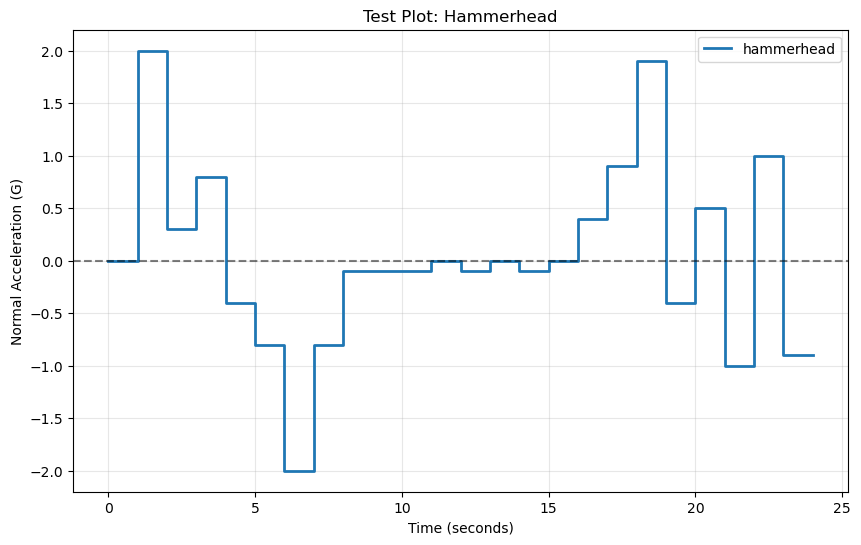
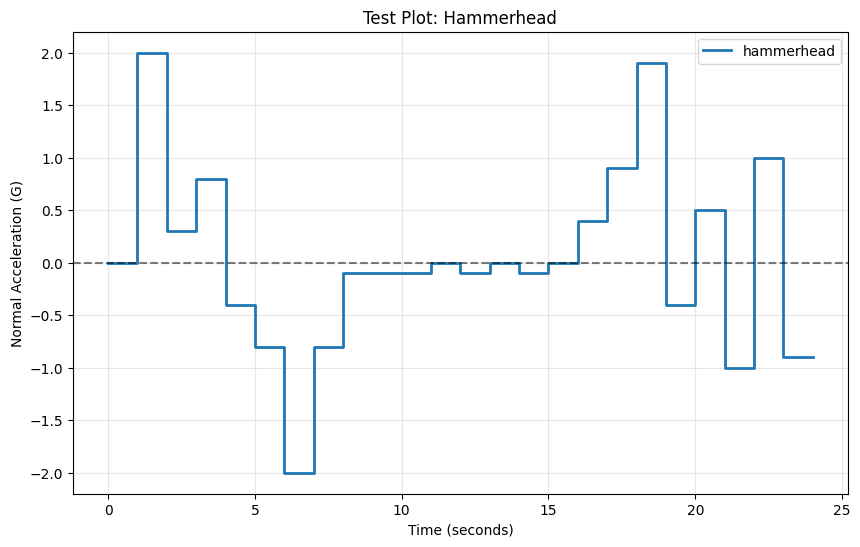
Enhance documentation, add Docker support, and improve CGEM temp file handling

diff --git a/cgem_wrapper.py b/cgem_wrapper.py
@@ -196,8 +196,9 @@ def run_cgem_for_profile(profile_id: str) -> Tuple[CGEMResult, Path]:
     samples = load_profile(profile_id)
     egp_lines = _profile_to_egp_lines(samples)
 
-    temp_dir_obj = tempfile.TemporaryDirectory(prefix="cgem_run_")
-    temp_dir = Path(temp_dir_obj.name)
+    # Use a persistent temp directory so that callers can inspect outputs
+    temp_dir_path = tempfile.mkdtemp(prefix="cgem_run_")
+    temp_dir = Path(temp_dir_path)
 
     try:
         # Prepare files
@@ -213,8 +214,8 @@ def run_cgem_for_profile(profile_id: str) -> Tuple[CGEMResult, Path]:
         result = _parse_cgem_output(out_path)
         return result, temp_dir
     except Exception:
-        # On failure, clean temp dir and re-raise
-        temp_dir_obj.cleanup()
+        # On failure, clean the temp dir and re-raise
+        shutil.rmtree(temp_dir, ignore_errors=True)
         raise
 
 

diff --git a/README.md b/README.md
@@ -24,6 +24,8 @@ Developed by **Dr. Diego Malpica**.
 python -m venv .venv
 source .venv/bin/activate  # Windows: .venv\Scripts\activate
 pip install -r requirements.txt
+# Linux users: if CGEM fails to run, install the Fortran runtime
+# sudo apt-get update && sudo apt-get install -y libgfortran5
 ```
 
 2) Launch the interactive visualization app
@@ -80,6 +82,120 @@ Copeland, K., & Whinnery, J. E. (2023). Cerebral blood flow-based computer model
 - `Aerobatics_sample_inputs/`: Example input profiles for scenarios
 - `docs/`: Guides and related documents
 - `notebooks/`: Research and demo notebooks
+
+---
+
+## Running with Conda (recommended for science stacks)
+
+Create an isolated Conda environment with all dependencies (CPU-only):
+
+```bash
+# Create environment
+conda create -n cgem-env -y python=3.11
+
+# Activate
+conda activate cgem-env
+
+# Core scientific stack
+conda install -y -c conda-forge \
+  numpy>=1.24 \
+  pandas>=2.0 \
+  scipy>=1.10 \
+  matplotlib>=3.7 \
+  seaborn>=0.12 \
+  plotly>=5.17 \
+  pillow>=10.0 \
+  pip
+
+# Streamlit and extras via pip (conda-forge streamlit is OK too)
+pip install "streamlit>=1.28"
+```
+
+Run the app:
+```bash
+streamlit run enhanced_app.py
+```
+
+Note:
+- The CGEM Fortran executable (`cgem`) requires the GNU Fortran runtime. On Linux, ensure `libgfortran5` is installed (e.g., `sudo apt-get install -y libgfortran5`). Inside Conda environments this is typically resolved by the system’s shared libraries.
+
+---
+
+## Dockerization
+
+Use Docker to run the app with a reproducible environment.
+
+### 1) Build the image
+
+Create a `Dockerfile` in the project root with the following content:
+
+```dockerfile
+# Base image with Python and build tools
+FROM python:3.11-slim
+
+# Install system dependencies (GNU Fortran runtime for CGEM)
+RUN apt-get update -y && \
+    apt-get install -y --no-install-recommends \
+      libgfortran5 \
+      && rm -rf /var/lib/apt/lists/*
+
+# Set workdir
+WORKDIR /app
+
+# Copy dependency manifests first (leverage Docker layer caching)
+COPY requirements.txt ./
+
+# Install Python deps
+RUN pip install --no-cache-dir -r requirements.txt
+
+# Copy the rest of the repo
+COPY . .
+
+# Streamlit configuration (optional)
+ENV STREAMLIT_SERVER_HEADLESS=true \
+    STREAMLIT_BROWSER_GATHER_USAGE_STATS=false
+
+# Expose Streamlit default port
+EXPOSE 8501
+
+# Default command runs the Streamlit app
+CMD ["streamlit", "run", "enhanced_app.py", "--server.port=8501", "--server.address=0.0.0.0"]
+```
+
+Then build:
+```bash
+docker build -t cgem-app:latest .
+```
+
+### 2) Run the container
+
+```bash
+docker run --rm -p 8501:8501 cgem-app:latest
+```
+
+Open the app at `http://localhost:8501`.
+
+### 3) Development mounts (optional)
+
+To iterate on code without rebuilding:
+```bash
+docker run --rm -p 8501:8501 \
+  -v $(pwd):/app \
+  cgem-app:latest
+```
+
+This mounts your working directory into the container.
+
+---
+
+## Troubleshooting
+
+- Missing `libgfortran.so.5` when running CGEM:
+  - On Debian/Ubuntu: `sudo apt-get update && sudo apt-get install -y libgfortran5`
+- Streamlit not installed inside your environment:
+  - Recreate your environment and re-run `pip install -r requirements.txt` (or Conda steps above).
+- Persisting CGEM temp files:
+  - The wrapper now stores run artifacts under `/tmp/cgem_run_*` and returns the path for inspection.
 
 ---
 
